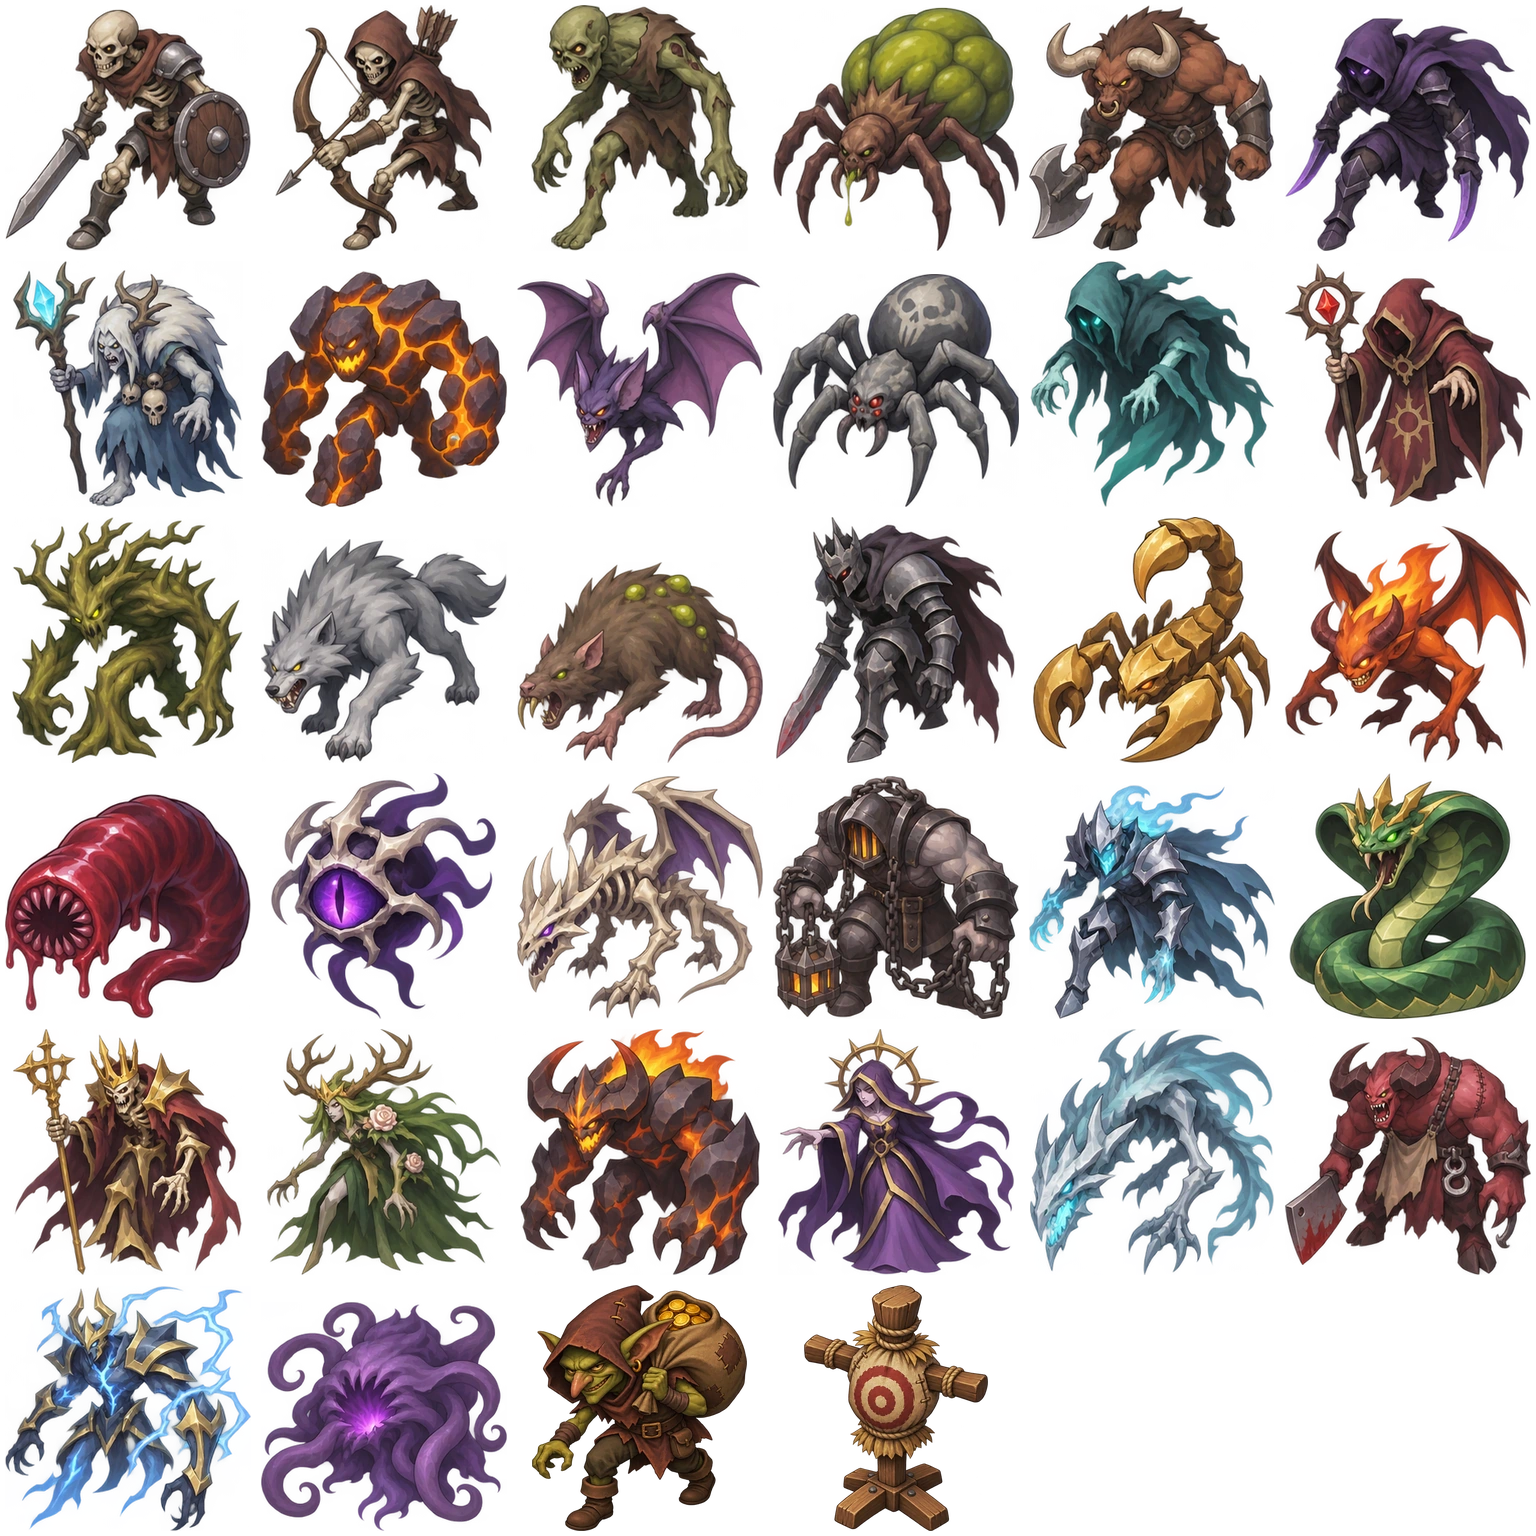
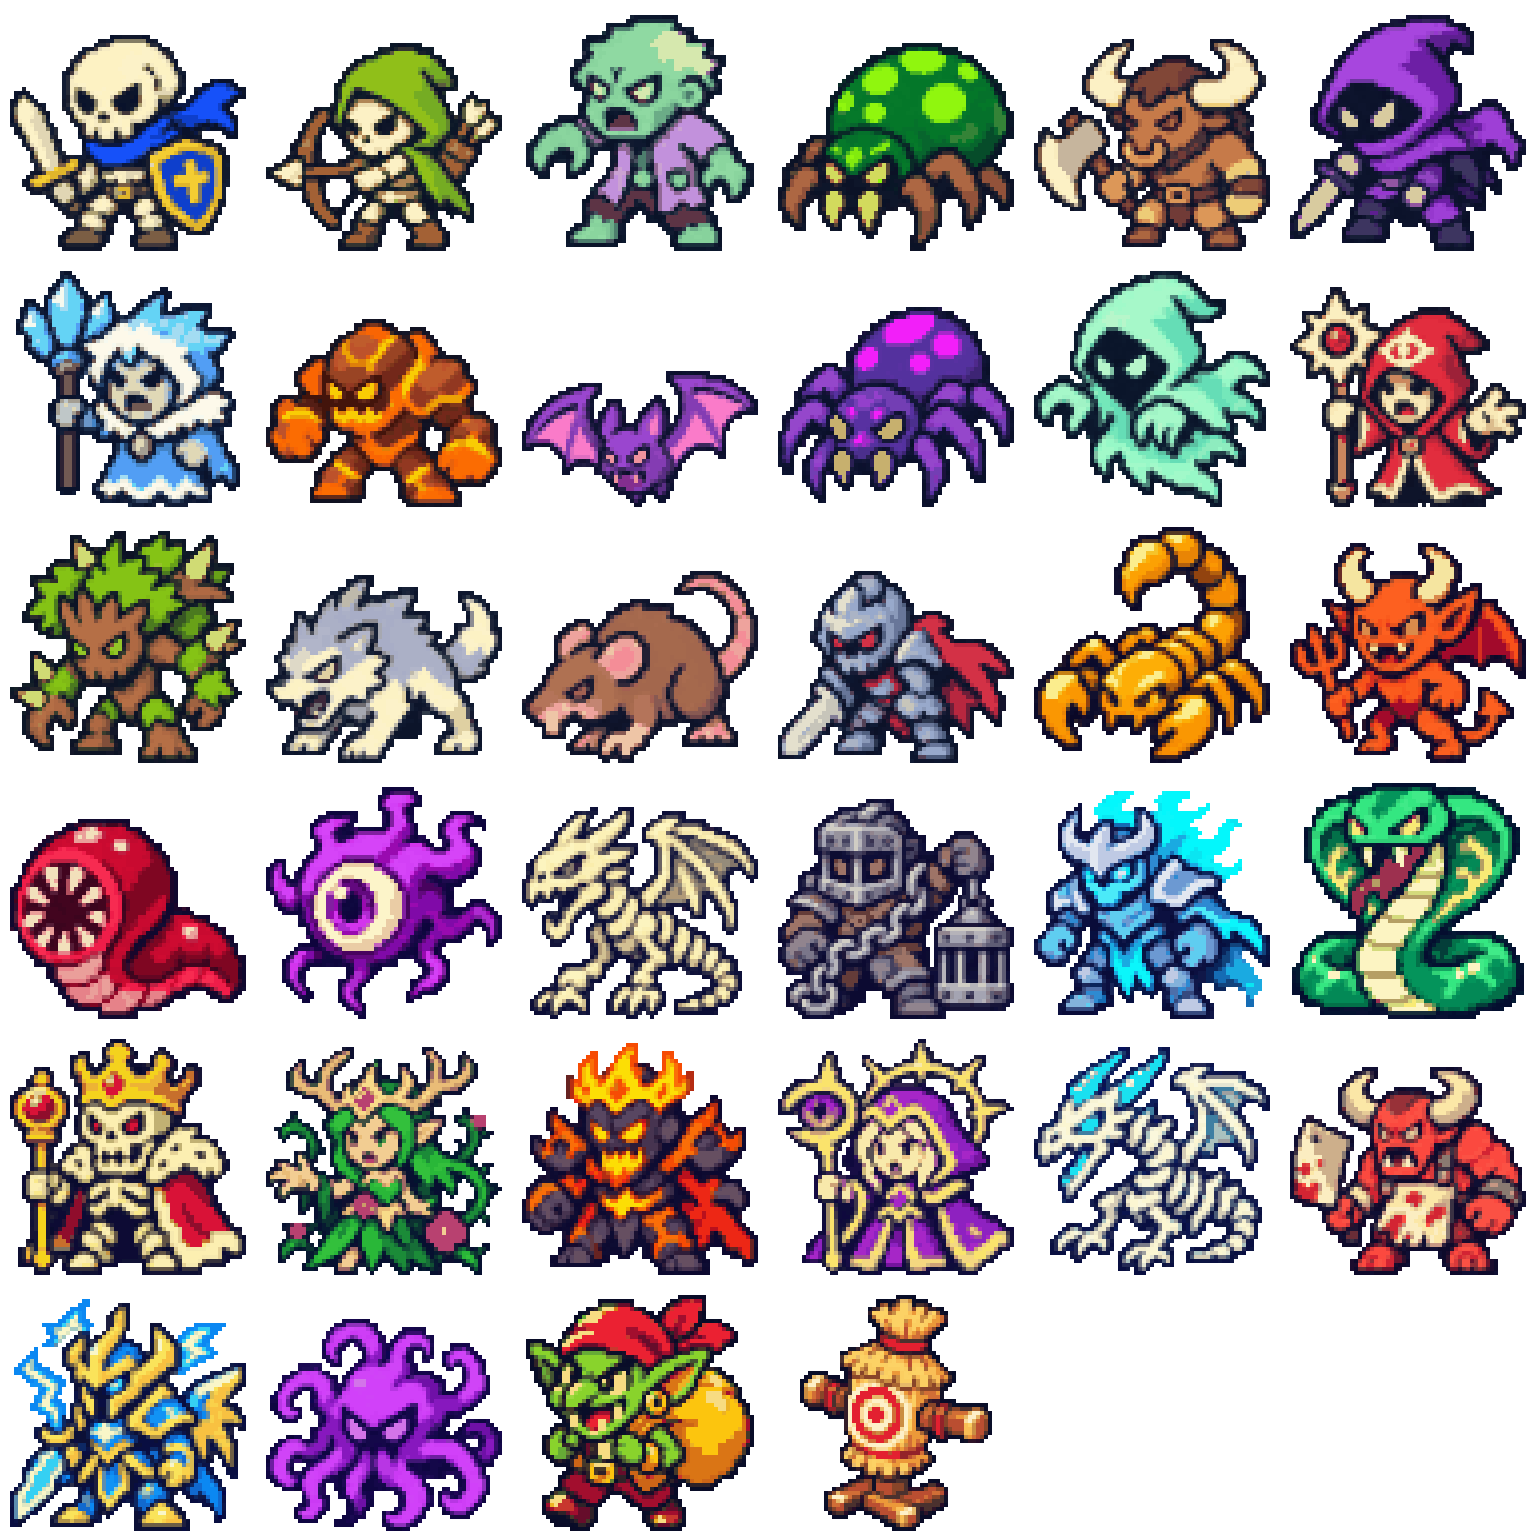
Redraw rift enemies and objects as limited-palette pixel sprites

diff --git a/src/render/TextureAtlas.ts b/src/render/TextureAtlas.ts
@@ -1,4 +1,4 @@
-import { Assets, Rectangle, Texture } from 'pixi.js';
+import { Assets, Rectangle, Texture, type SCALE_MODE } from 'pixi.js';
 
 const textures = new Map<string, Texture>();
 const pending = new Map<string, Promise<void>>();
@@ -8,11 +8,13 @@ export function preloadAtlas(
   columns: number,
   rows: number,
   frames: [string, number, number][],
+  scaleMode?: SCALE_MODE,
 ) {
   const previous = pending.get(src);
   if (previous) return previous;
   const request = Assets.load<Texture>(src)
     .then((atlas) => {
+      if (scaleMode) atlas.source.scaleMode = scaleMode;
       const width = atlas.width / columns,
         height = atlas.height / rows;
       for (const [id, column, row] of frames) {

diff --git a/src/engine/GameEngine.ts b/src/engine/GameEngine.ts
@@ -337,10 +337,16 @@ export class GameEngine {
       preloadCharacterTextures(config.classId, config.equipment),
       preloadSkillTextures(this.skills.map((skill) => skill.id)),
       preloadPetTexture(config.petId),
-      preloadAtlas('assets/maps/rift-loot.webp', 2, 1, [
-        ['loot:item', 0, 0],
-        ['loot:gold', 1, 0],
-      ]),
+      preloadAtlas(
+        'assets/maps/rift-loot.webp',
+        2,
+        1,
+        [
+          ['loot:item', 0, 0],
+          ['loot:gold', 1, 0],
+        ],
+        'nearest',
+      ),
       preloadMapTextures(),
       preloadPropTextures(),
       preloadMonsterTextures(),

diff --git a/src/render/MapGenerator.ts b/src/render/MapGenerator.ts
@@ -22,6 +22,7 @@ export function preloadPropTextures() {
     3,
     3,
     propIds.map((id, i) => [`prop:${id}`, i % 3, Math.floor(i / 3)]),
+    'nearest',
   );
 }
 

diff --git a/src/render/MonsterTextures.ts b/src/render/MonsterTextures.ts
@@ -16,5 +16,6 @@ export function preloadMonsterTextures() {
     6,
     6,
     ids.map((id, i) => [`monster:${id}`, i % 6, Math.floor(i / 6)]),
+    'nearest',
   );
 }
